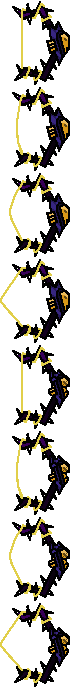
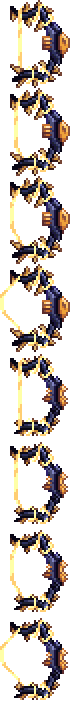
Hun-Terr Greatbow sprite updated

diff --git a/Content/Items/Favors/Prehardmode/Bee17.cs b/Content/Items/Favors/Prehardmode/Bee17.cs
@@ -17,7 +17,7 @@ namespace ITD.Content.Items.Favors.Prehardmode
     public class Bee17 : Favor
     {
         public override string Texture => Placeholder.PHAxe;
-        public override int FavorFatigueTime => 20;
+        public override int FavorFatigueTime => 60;
         public override bool IsCursedFavor => true;
         public override void SetStaticDefaults()
         {
@@ -27,7 +27,6 @@ namespace ITD.Content.Items.Favors.Prehardmode
             Item.width = Item.height = 32;
             Item.master = true;
         }
-        int MinionCount = 0;
         public override bool UseFavor(Player player)
         {
             for (int i = 0; i < Main.maxProjectiles; i++)
@@ -37,10 +36,13 @@ namespace ITD.Content.Items.Favors.Prehardmode
                 {
                     for (int f = 0; f < player.slotsMinions; f++)
                     {
-                        Projectile bee = Projectile.NewProjectileDirect(player.GetSource_FromThis(), p.Center, Vector2.Zero,
-                            ModContent.ProjectileType<GrumbleBee>(), 20, p.knockBack, player.whoAmI);
-                        bee.minionSlots = p.minionSlots;
-                        p.Kill();
+                        if (Main.netMode != NetmodeID.MultiplayerClient)
+                        {
+                            Projectile bee = Projectile.NewProjectileDirect(player.GetSource_FromThis(), p.Center, Vector2.Zero,
+                            ModContent.ProjectileType<GrumbleBee>(), p.damage, p.knockBack, player.whoAmI);
+                            bee.minionSlots = p.minionSlots;
+                            p.Kill();
+                        }
                     }
                 }
             }
@@ -48,10 +50,6 @@ namespace ITD.Content.Items.Favors.Prehardmode
         }
         public override void UpdateFavor(Player player, bool hideVisual)
         {
-            if (!FavorPlayer.UseFavorKey.Current)
-            {
-                MinionCount = 0;
-            }
         }
         public override void ModifyTooltips(List<TooltipLine> tooltips)
         {

diff --git a/Content/Projectiles/Friendly/Summoner/FishbackerProj.cs b/Content/Projectiles/Friendly/Summoner/FishbackerProj.cs
@@ -26,11 +26,18 @@ namespace ITD.Content.Projectiles.Friendly.Summoner
 
         public override void SetDefaults()
         {
-            Projectile.DefaultToWhip();
             Projectile.width = 28;
-            Projectile.WhipSettings.RangeMultiplier = 1f;
+            Projectile.height = 18;
+            Projectile.friendly = true;
+            Projectile.penetrate = -1;
+            Projectile.tileCollide = false;
+            Projectile.ownerHitCheck = true; // This prevents the projectile from hitting through solid tiles.
+            Projectile.extraUpdates = 1;
+            Projectile.usesLocalNPCImmunity = true;
+            Projectile.localNPCHitCooldown = -1;
             Projectile.WhipSettings.Segments = 12;
-            Projectile.light = 0.5f;
+            Projectile.WhipSettings.RangeMultiplier = 0.72f;
+            //
         }
         public override void OnSpawn(IEntitySource source)
         {
